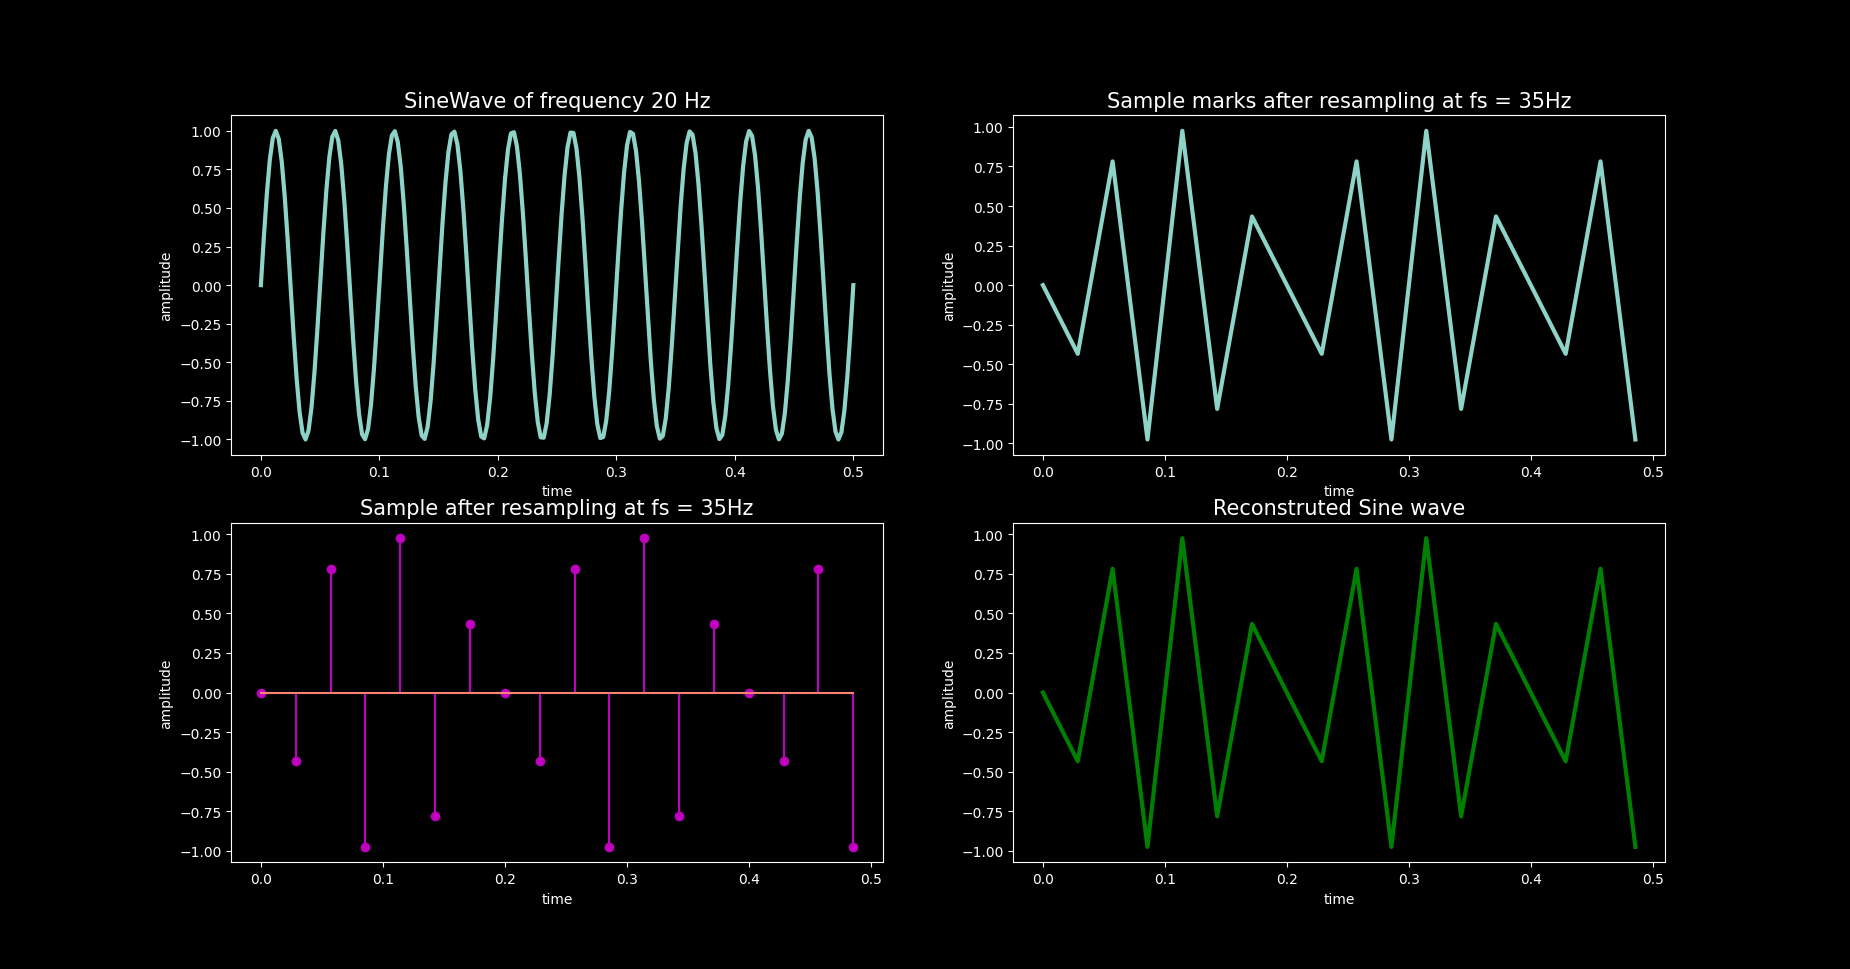
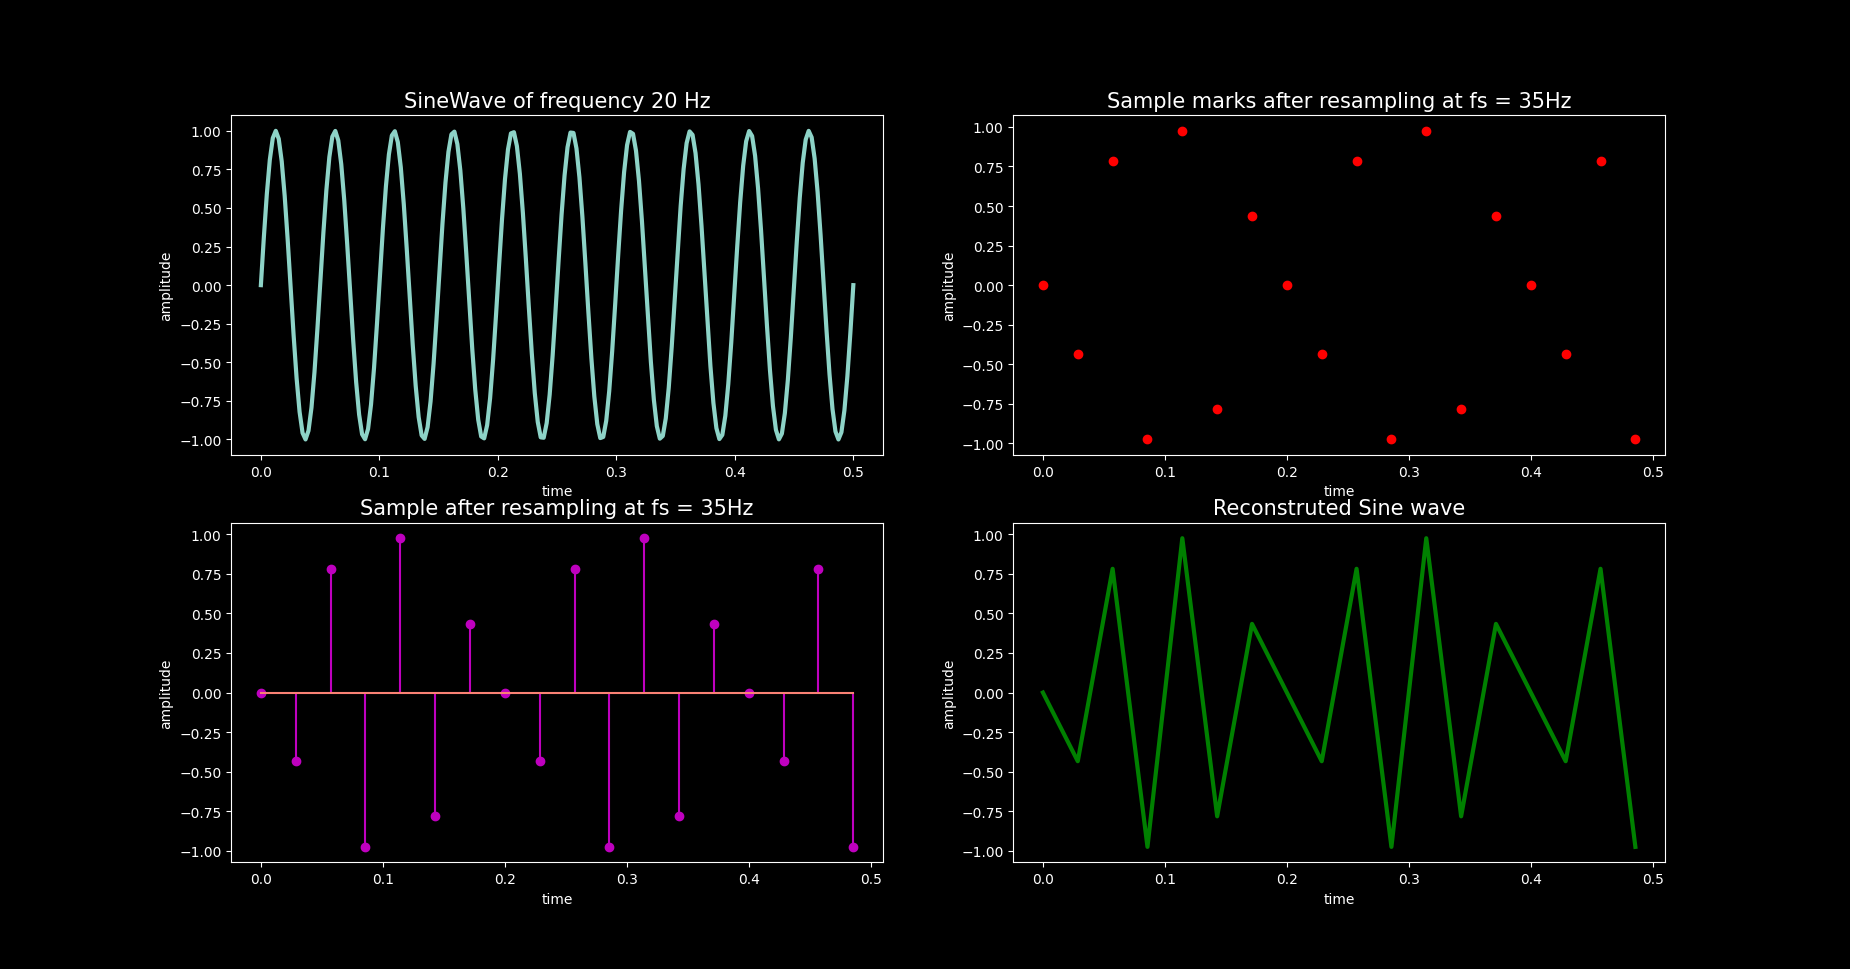
sampling reconstruction(feat): add greater than

diff --git a/python/sampling_reconstruction/plots.py b/python/sampling_reconstruction/plots.py
@@ -2,7 +2,7 @@ import numpy as np
 import matplotlib.pyplot as plt
 from matplotlib import style
 
-# Sampling Frequency less than twcie the maximum frequency (fs < 2fmax)
+# Sampling Frequency less than twice the maximum frequency (fs < 2fmax)
 f = 20      #Hz
 t = np.linspace(0, 0.5, 200)
 x1 = np.sin(2*np.pi*f*t)
@@ -29,7 +29,7 @@ plt.xlabel('time', fontsize=10)
 plt.ylabel('amplitude', fontsize=10)
 
 plt.subplot(2, 2, 2)
-plt.plot(nT, x2, linewidth=3)
+plt.plot(nT, x2, 'ro', linewidth=3)
 plt.title('Sample marks after resampling at fs = 35Hz', fontsize=15)
 plt.xlabel('time', fontsize=10)
 plt.ylabel('amplitude', fontsize=10)
@@ -48,4 +48,44 @@ plt.ylabel('amplitude', fontsize=10)
 
 plt.show()
 
+# Sampling Frequency greater than twcie the maximum frequency (fs > 2fmax)
 
+f = 20      # Hz
+t = np.linspace(0, 0.5, 200)
+x1 = np.sin(2*np.pi*f*t)
+
+srate = 50  # Hz
+T = 1/srate
+
+n = np.arange(0, 0.5/T)
+
+nT = n*T
+x2 = np.sin(2*np.pi*f*nT)
+
+plt.figure(figsize=(16,9))
+plt.subplot(2, 2, 1)
+
+plt.plot(t, x1, linewidth=3)
+plt.title('SineWave of frequency 20 Hz', fontsize=15)
+plt.xlabel('time', fontsize=10)
+plt.ylabel('amplitude', fontsize=10)
+
+plt.subplot(2, 2, 2)
+plt.plot(nT, x2, 'ro', linewidth=3)
+plt.title('Sample marks after resampling at fs = 50Hz', fontsize=15)
+plt.xlabel('time', fontsize=10)
+plt.ylabel('amplitude', fontsize=10)
+
+plt.subplot(2, 2, 3)
+plt.stem(nT, x2, 'm')
+plt.title('Sample after resampling at fs = 50Hz', fontsize=15)
+plt.xlabel('time', fontsize=10)
+plt.ylabel('amplitude', fontsize=10)
+
+plt.subplot(2, 2, 4)
+plt.plot(nT, x2, 'g-', linewidth=3)
+plt.title('Reconstruted Sine wave', fontsize=15)
+plt.xlabel('time', fontsize=10)
+plt.ylabel('amplitude', fontsize=10)
+
+plt.show()

diff --git a/python/sampling_reconstruction/README.md b/python/sampling_reconstruction/README.md
@@ -30,3 +30,9 @@ after sampling.
 
 **Sampling a Sine wave of Fmax = 20Hz with fs = 35 Hz:**
 
+![](less_than.png)
+
+**Sampling a Sine wave of Fmax = 20Hz with fs = 50 Hz:**
+
+![](greater_than.png)
+
